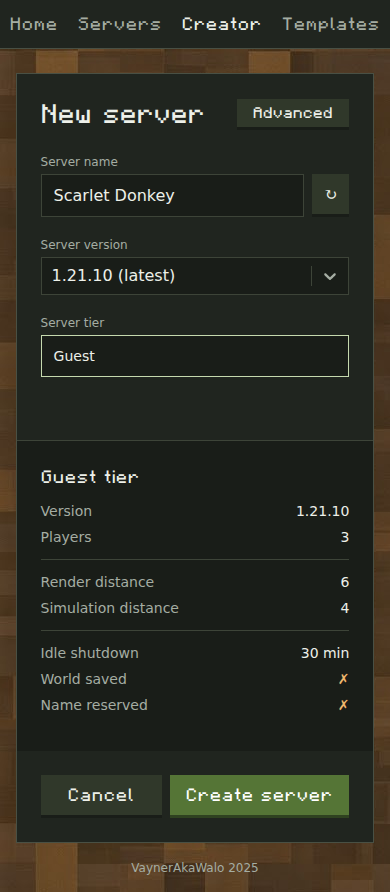
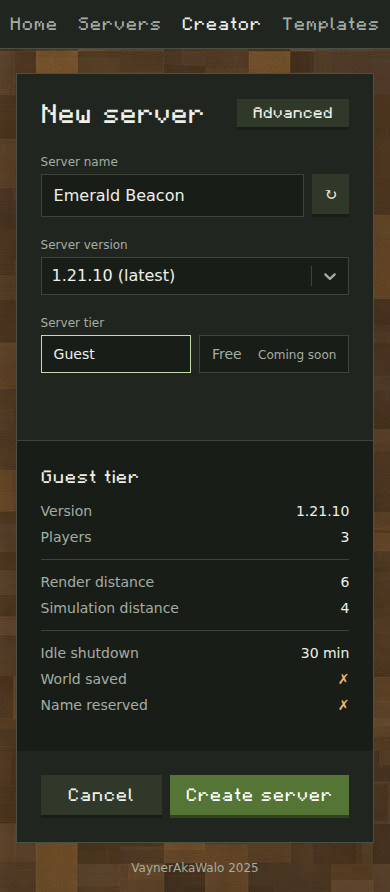
Show the Free tier as a locked preview in the creator

diff --git a/web/src/creator/ServerCreator.tsx b/web/src/creator/ServerCreator.tsx
@@ -47,6 +47,10 @@ function Included({value}: { value: boolean }) {
     : <span className="text-warning" aria-label="No">✗</span>
 }
 
+function Limit({value, base}: { value: number, base: number }) {
+  return <span className={value > base ? "text-online" : ""}>{value}</span>
+}
+
 export function ServerCreator() {
   const catalog = useLoaderData<CatalogResponse | null>()
   const {templateName, templatePreset, templateOps} = useLocation().state || {}
@@ -180,21 +184,31 @@ export function ServerCreator() {
                  className={`cursor-pointer border bg-inset px-3 py-2 has-focus-visible:outline-2 has-focus-visible:outline-action-content ${state.tier === tier.id ? "border-action-content" : "border-edge hover:border-edge-strong"}`}>
             <input className="sr-only" type="radio" name="tier" value={tier.id} checked={state.tier === tier.id}
                    onChange={() => dispatch({type: "UPDATE_TIER", payload: tier.id})}/>
-            <span className="text-sm">{tier.name}</span>
+            <span className="flex items-baseline justify-between gap-2 text-sm">
+              <span className={tier.available ? "" : "text-content-muted"}>{tier.name}</span>
+              {!tier.available && <span className="text-xs text-content-muted">Coming soon</span>}
+            </span>
           </label>
         ))}
       </div>
     </fieldset>
   )
 
+  const selectedTier = catalog?.tiers.find(candidate => candidate.id === state.tier)
+
   const summary = () => {
-    const tier = catalog?.tiers.find(candidate => candidate.id === state.tier)
+    const tier = selectedTier
     if (!tier) return null
+
+    const baseline = catalog?.tiers.find(candidate => candidate.default) ?? tier
 
     const version = isTemplated() ? `${templateName}-${templateOps.VERSION}` : state.opts.VERSION
     const groups: [string, React.ReactNode][][] = [
-      [["Version", version], ["Players", tier.maxPlayers]],
-      [["Render distance", tier.viewDistance], ["Simulation distance", tier.simulationDistance]],
+      [["Version", version], ["Players", <Limit value={tier.maxPlayers} base={baseline.maxPlayers}/>]],
+      [
+        ["Render distance", <Limit value={tier.viewDistance} base={baseline.viewDistance}/>],
+        ["Simulation distance", <Limit value={tier.simulationDistance} base={baseline.simulationDistance}/>],
+      ],
       [["Idle shutdown", "30 min"], ["World saved", <Included value={tier.persistent}/>], ["Name reserved", <Included value={tier.nameReserved}/>]],
     ]
 
@@ -281,7 +295,10 @@ export function ServerCreator() {
 
       <div className="flex items-center gap-2 w-full p-6 sm:pt-0">
         <button className="mc-button-secondary flex-1 whitespace-nowrap" onClick={() => navigate("/my-servers")}>Cancel</button>
-        <button className="mc-button flex-1 whitespace-nowrap" onClick={createServer}>Create server</button>
+        <button className="mc-button flex-1 whitespace-nowrap disabled:cursor-not-allowed disabled:opacity-60 disabled:hover:bg-action"
+                disabled={!selectedTier?.available} onClick={createServer}>
+          {selectedTier?.available === false ? "Coming soon" : "Create server"}
+        </button>
       </div>
     </div>
   )

diff --git a/web/src/clients/ManagerClient.ts b/web/src/clients/ManagerClient.ts
@@ -24,7 +24,7 @@ export interface GameVersion {
 }
 
 export interface CatalogResponse {
-  tiers: { id: Tier, name: string, description: string, default: boolean, maxPlayers: number, viewDistance: number, simulationDistance: number, persistent: boolean, nameReserved: boolean }[],
+  tiers: { id: Tier, name: string, description: string, default: boolean, maxPlayers: number, viewDistance: number, simulationDistance: number, persistent: boolean, nameReserved: boolean, available: boolean }[],
   presets: { id: string, name: string, description: string, options: Opts }[],
   options: { id: string, values?: string[] }[],
   versions: Record<string, { latestRelease: string, items: GameVersion[] }>

diff --git a/internal/definition/container_customizer.go b/internal/definition/container_customizer.go
@@ -20,6 +20,7 @@ type serverInstance struct {
 	simulationDistance int
 	persistent         bool
 	nameReserved       bool
+	available          bool
 }
 
 // Game nodes have about 6.5Gi allocatable, so two small servers share a node.
@@ -39,12 +40,25 @@ var tierMapping = map[Tier]serverInstance{
 		simulationDistance: 4,
 		persistent:         false,
 		nameReserved:       false,
+		available:          true,
+	},
+	Free: {
+		name:               "Free",
+		description:        "For players with an account",
+		memory:             MemorySmall,
+		instanceType:       Shared,
+		maxPlayers:         5,
+		viewDistance:       8,
+		simulationDistance: 6,
+		persistent:         false,
+		nameReserved:       true,
+		available:          false,
 	},
 }
 
 const defaultTier = Guest
 
-var tierOrder = []Tier{Guest}
+var tierOrder = []Tier{Guest, Free}
 
 func customizeContainer(ctx context.Context, definition ServerDefinition) (ServerDefinition, error) {
 	for key, val := range containerEnforcedOpts {
@@ -56,7 +70,7 @@ func customizeContainer(ctx context.Context, definition ServerDefinition) (Serve
 
 func translateTier(ctx context.Context, tier Tier) (serverInstance, error) {
 	instance, found := tierMapping[tier]
-	if !found {
+	if !found || !instance.available {
 		return serverInstance{}, invalidf("tier %s is not available", tier)
 	}
 

diff --git a/internal/definition/catalog.go b/internal/definition/catalog.go
@@ -19,6 +19,7 @@ type CatalogTier struct {
 	SimulationDistance int    `json:"simulationDistance"`
 	Persistent         bool   `json:"persistent"`
 	NameReserved       bool   `json:"nameReserved"`
+	Available          bool   `json:"available"`
 }
 
 type CatalogPreset struct {
@@ -60,6 +61,7 @@ func catalogTiers() []CatalogTier {
 			SimulationDistance: instance.simulationDistance,
 			Persistent:         instance.persistent,
 			NameReserved:       instance.nameReserved,
+			Available:          instance.available,
 		})
 	}
 

diff --git a/internal/definition/catalog_test.go b/internal/definition/catalog_test.go
@@ -13,8 +13,8 @@ func TestCatalogMatchesDefinitions(t *testing.T) {
 		t.Fatalf("tiers = %+v", catalog.Tiers)
 	}
 	for _, tier := range catalog.Tiers {
-		if _, err := translateTier(nil, Tier(tier.ID)); err != nil {
-			t.Errorf("catalog tier %s cannot be provisioned: %v", tier.ID, err)
+		if _, err := translateTier(nil, Tier(tier.ID)); (err == nil) != tier.Available {
+			t.Errorf("catalog tier %s is available %v but provisioning returned %v", tier.ID, tier.Available, err)
 		}
 	}
 

diff --git a/internal/definition/container_customizer_test.go b/internal/definition/container_customizer_test.go
@@ -12,6 +12,7 @@ func TestTranslateTier(t *testing.T) {
 		wantErr    bool
 	}{
 		{Guest, MemorySmall, false},
+		{Free, "", true},
 		{"iron", "", true},
 		{"", "", true},
 	}

diff --git a/internal/definition/constants.go b/internal/definition/constants.go
@@ -46,4 +46,5 @@ type Tier string
 
 const (
 	Guest Tier = "guest"
+	Free  Tier = "free"
 )
